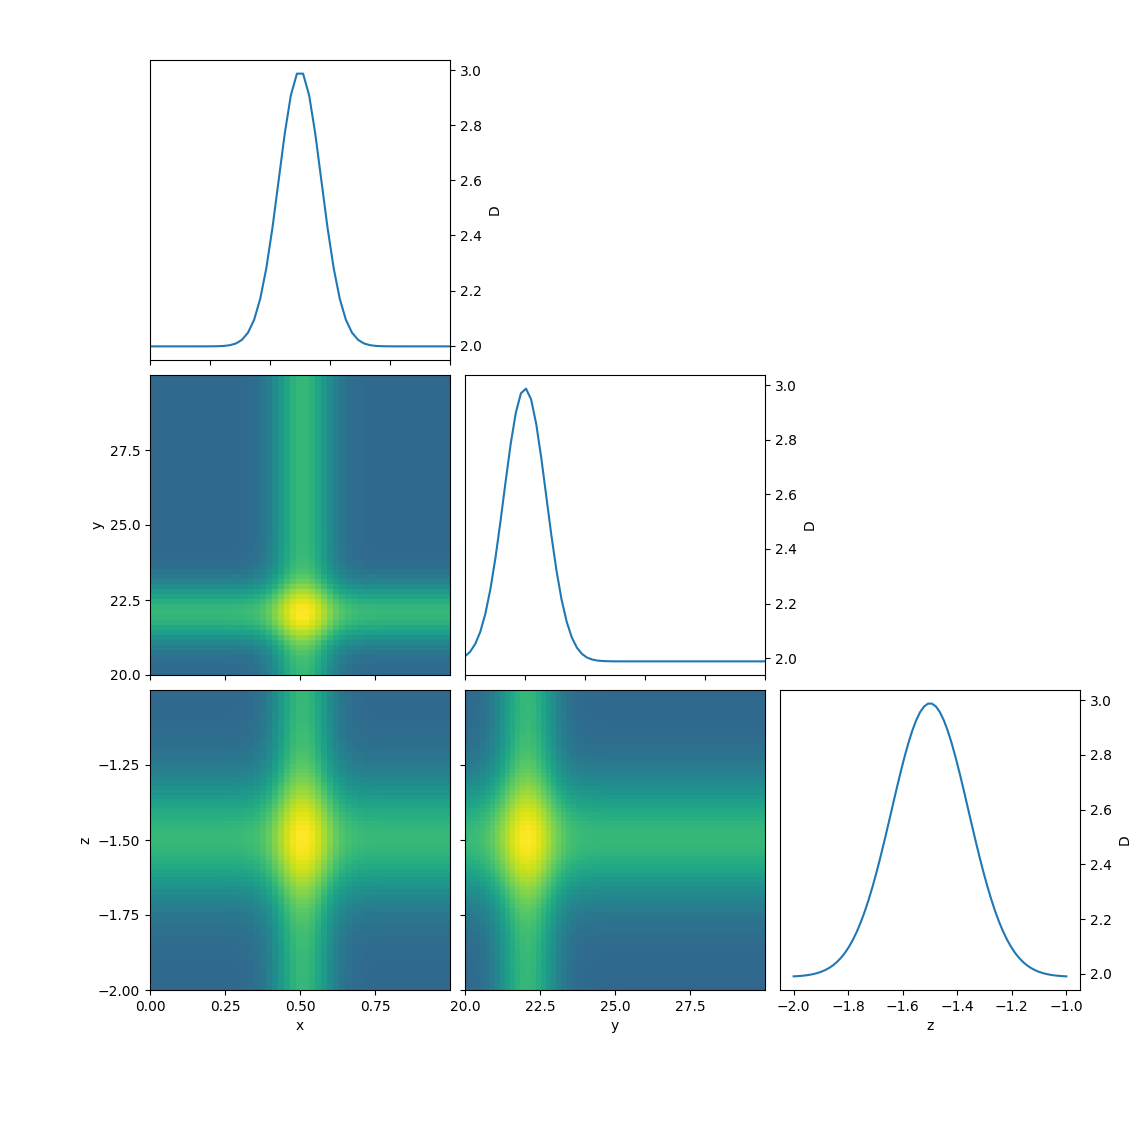
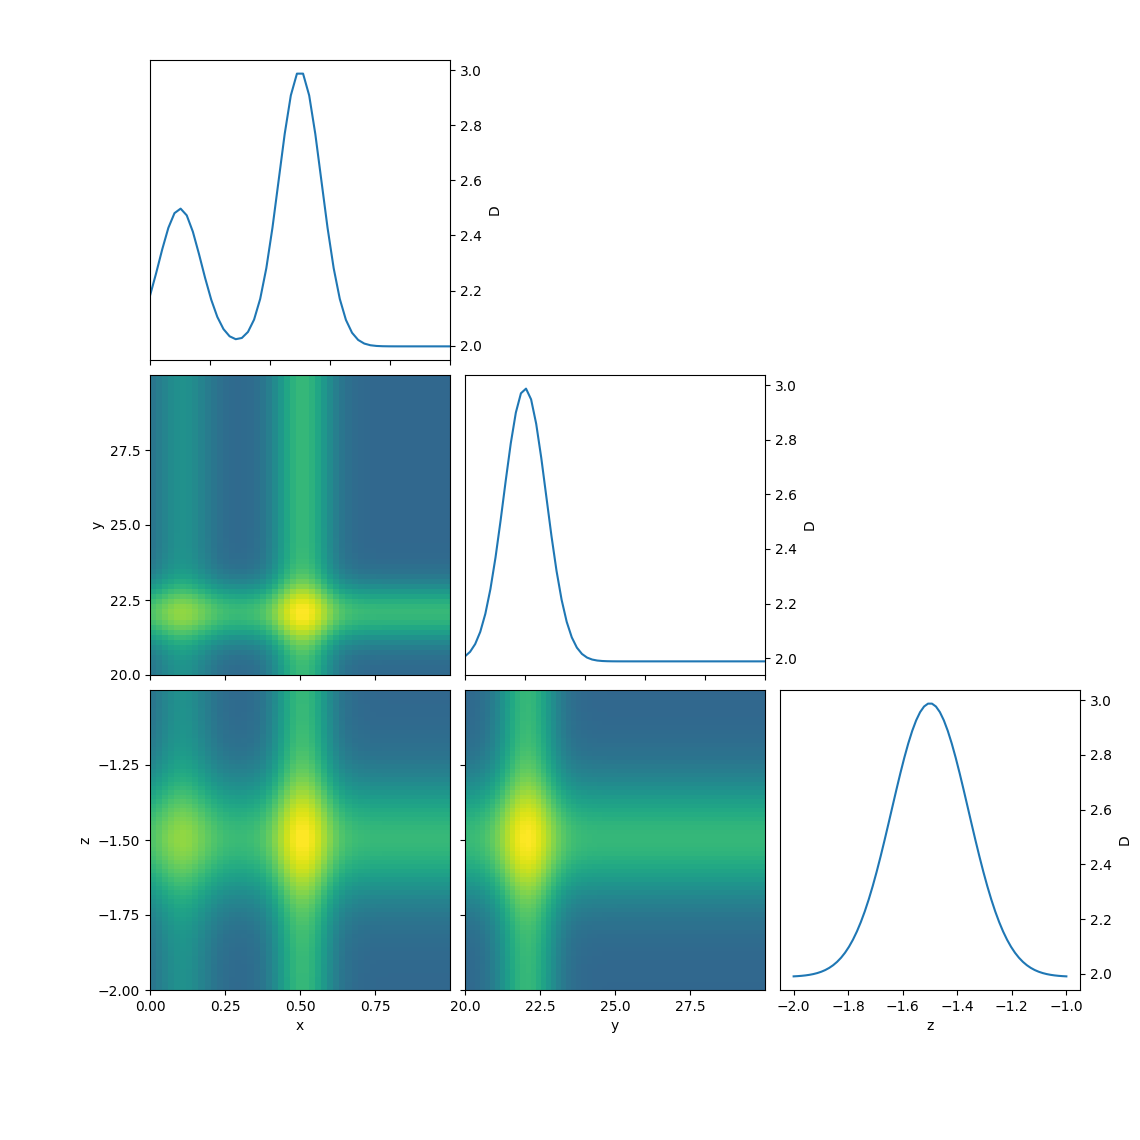
Adds slice_max method and update example

Changed region(s): [[0.1228, 0.307, 0.2149, 0.8904], [0.1842, 0.2763, 0.2149, 0.307]]

diff --git a/projection_matrix/projection_matrix.py b/projection_matrix/projection_matrix.py
@@ -3,7 +3,17 @@ import matplotlib.pyplot as plt
 from matplotlib.ticker import MaxNLocator
 
 
-def projection_matrix(D, xyz, labels=None, projection=np.max, max_n_ticks=4,
+def slice_max(D, axis):
+    """ Return the slice along the given axis """
+    idxs = [range(D.shape[j]) for j in range(D.ndim)]
+    max_idx = list(np.unravel_index(D.argmax(), D.shape))
+    for k in np.atleast_1d(axis):
+        idxs[k] = [max_idx[k]]
+    res = np.squeeze(D[np.ix_(*tuple(idxs))])
+    return res
+
+
+def projection_matrix(D, xyz, labels=None, projection=slice_max, max_n_ticks=4,
                       factor=3):
     """ Generate a projection matrix plot
 
@@ -20,7 +30,8 @@ def projection_matrix(D, xyz, labels=None, projection=np.max, max_n_ticks=4,
         labels, the final label is for the dependent variable.
     projection: func
         Function to use for projection, must take an `axis` argument. Default
-        is `np.max()`, to project out a slice along the maximum.
+        is `projection_matrix.slice_max()`, to project out a slice along the
+        maximum.
     max_n_ticks: int
         Number of ticks for x and y axis of the `pcolormesh` plots
     factor: float
@@ -100,3 +111,6 @@ def projection_1D(ax, x, D, xidx, projection):
     ax.yaxis.tick_right()
     ax.yaxis.set_label_position("right")
     return ax
+
+
+

diff --git a/example.py b/example.py
@@ -1,5 +1,5 @@
 import numpy as np
-import projection_matrix.projection_matrix as pmp
+import projection_matrix as pmp
 
 # Generate example data
 x = np.linspace(0, 1, 50)
@@ -11,10 +11,14 @@ sigmax = 0.1
 sigmay = 1
 sigmaz = 0.2
 D = (np.exp(-(X-x0)**2/sigmax**2)
+     + 0.5*np.exp(-(X-0.1)**2/sigmax**2)
      + np.exp(-(Y-y0)**2/sigmay**2)
      + np.exp(-(Z-z0)**2/sigmaz**2))
 
-fig, axes = pmp(
-    D, xyz=[x, y, z], labels=['x', 'y', 'z', 'D'], projection=np.max)
+fig, axes = pmp.projection_matrix(
+    D, xyz=[x, y, z], labels=['x', 'y', 'z', 'D'],
+    projection=pmp.slice_max,
+    #projection=np.max
+    )
 fig.savefig('example')
 

diff --git a/projection_matrix/__init__.py b/projection_matrix/__init__.py
@@ -1,1 +1,1 @@
-from .projection_matrix import projection_matrix
+from .projection_matrix import projection_matrix, slice_max
